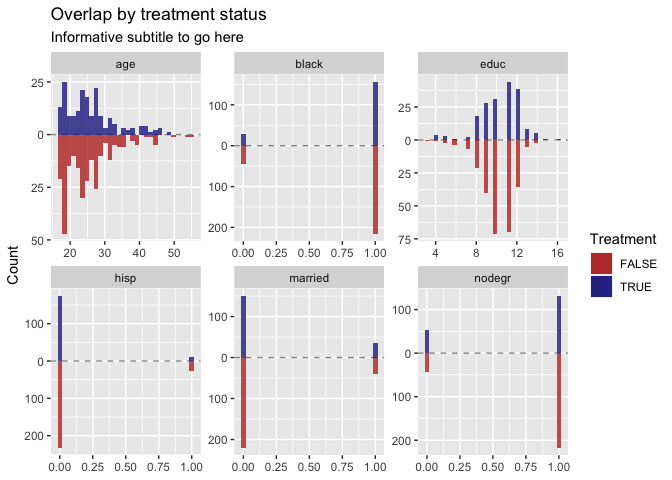
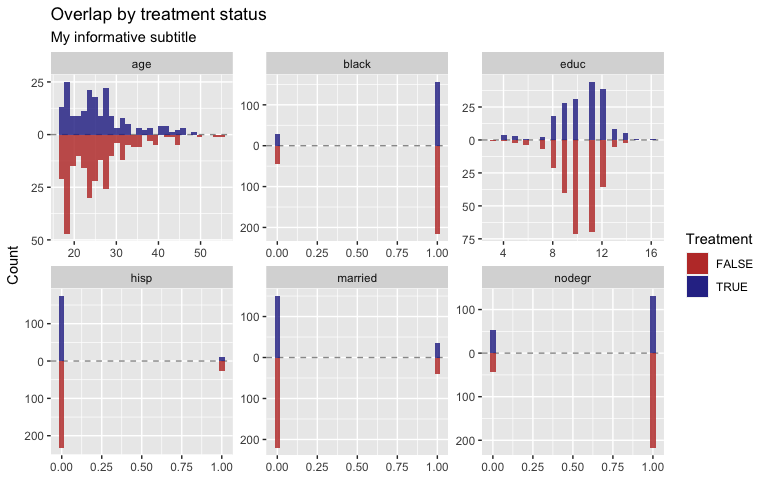
updated readme

diff --git a/README.md b/README.md
@@ -33,7 +33,7 @@ model_results <- bartCause::bartc(
 plot_diagnostic_common_support(.model = model_results)
 ```
 
-<img src="man/figures/README-example-1.png" width="100%" />
+<img src="man/figures/README-example-1.png" width="75%" style="display: block; margin: auto;" />
 
 ``` r
 # plot overlap by variable
@@ -42,10 +42,10 @@ plot_overlap_vars(
   treatment_col = 'treat',
   confounder_cols = confounders,
   plt_type = 'Histogram'
-)
+) + labs(subtitle = 'My informative subtitle')
 ```
 
-<img src="man/figures/README-example-2.png" width="100%" />
+<img src="man/figures/README-example-2.png" width="75%" style="display: block; margin: auto;" />
 
 ## Installation
 
